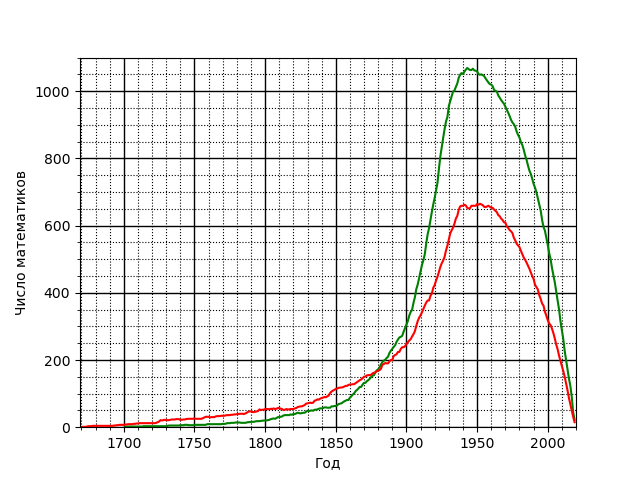
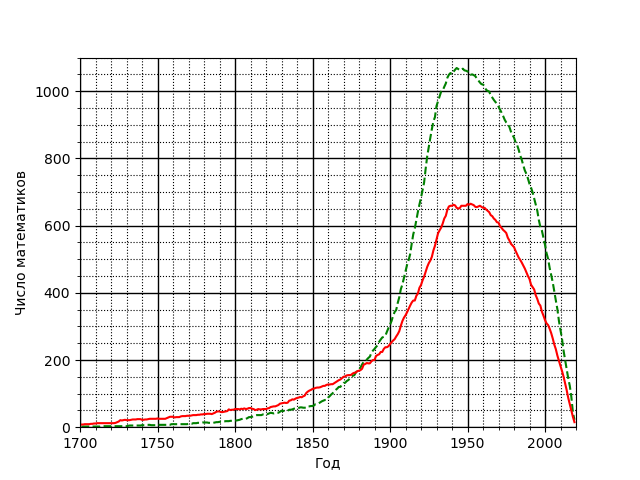
axis change

Changed region(s): [[0.0938, 0.125, 0.9062, 0.9375]]

diff --git a/1.py b/1.py
@@ -30,12 +30,12 @@ if __name__ == '__main__':
   # rnd = np.random.randint(0, 10, size=(3, rng.size))
   # yrs = 1600 + rng
   # fig, ax = plt.subplots(figsize=(5, 3))
-   plt.axis([1669 , 2020, 0, 1100])
+   plt.axis([1700 , 2020, 0, 1100])
    plt.xlabel("Год")
    plt.ylabel("Число математиков")
    
    # представляем точки (х,у) кружочками диаметра 10
-   plt.plot(data_x_usa, data_y_usa, 'r', color='green')
+   plt.plot(data_x_usa, data_y_usa, 'r--', color='green')
    plt.plot(data_x, data_y, 'r')
 
    # Сетка на фоне для улучшения восприятия
